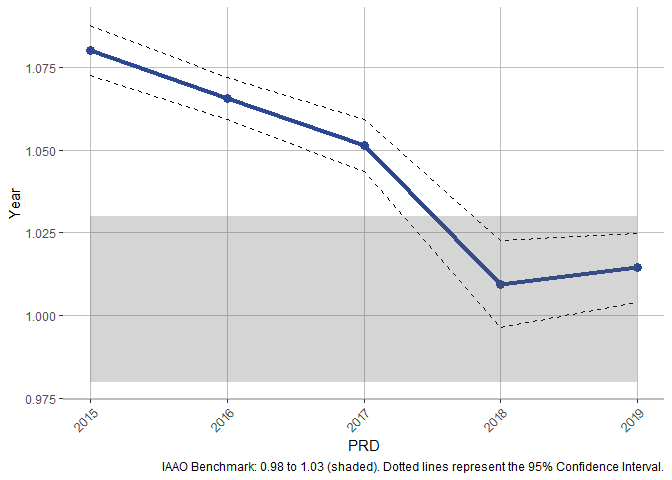
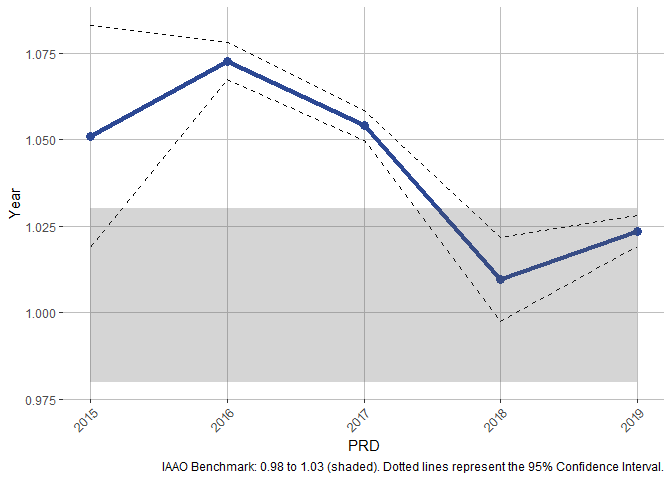
clearing r CMD check

diff --git a/README.md b/README.md
@@ -165,11 +165,11 @@ ratios <-
 stats <- cmfproperty::calc_iaao_stats(ratios)
 head(stats)
 #>       N     COD COD_SE    PRD PRD_SE     PRB PRB_SE  q1_ratio median_ratio
-#> 1 51879 19.1173 5.9888 1.0801 0.0039 -0.0514 0.0012 0.7758364    0.9093448
-#> 2 62852 20.7519 6.3019 1.0656 0.0033 -0.0462 0.0011 0.7705720    0.9001375
-#> 3 65961 19.8789 6.1441 1.0513 0.0040 -0.0269 0.0011 0.7428108    0.8732099
-#> 4 65298 19.2052 6.0299 1.0095 0.0067  0.0133 0.0010 0.7470336    0.8856039
-#> 5 62041 17.1030 4.8863 1.0145 0.0053  0.0098 0.0010 0.7681042    0.9035000
+#> 1 51879 17.3999 6.2998 1.0509 0.0164 -0.0514 0.0012 0.7758364    0.9093448
+#> 2 62852 19.3270 6.4174 1.0726 0.0027 -0.0462 0.0011 0.7705720    0.9001375
+#> 3 65961 19.0936 6.1161 1.0540 0.0022 -0.0269 0.0011 0.7428108    0.8732099
+#> 4 65298 19.2335 5.9038 1.0097 0.0062  0.0133 0.0010 0.7470336    0.8856039
+#> 5 62041 18.2744 4.5088 1.0236 0.0023  0.0098 0.0010 0.7681042    0.9035000
 #>   q3_ratio q1_sale median_sale q3_sale q1_assessed_value median_assessed_value
 #> 1 1.057180  148000      230000  375000          136670.0                213430
 #> 2 1.060422  148000      229900  365000          133940.0                209150
@@ -396,7 +396,7 @@ cmfproperty::make_report(ratios,
 #>   |                                                                              |......................................................................| 100%
 #>   ordinary text without R code
 #> output file: report.knit.md
-#> "C:/Program Files/RStudio/bin/pandoc/pandoc" +RTS -K512m -RTS report.utf8.md --to html4 --from markdown+autolink_bare_uris+tex_math_single_backslash+smart --output pandoc683c53d911fc.html --email-obfuscation none --self-contained --standalone --section-divs --table-of-contents --toc-depth 2 --variable toc_float=1 --variable toc_selectors=h1,h2 --variable toc_collapsed=1 --variable toc_smooth_scroll=1 --variable toc_print=1 --template "C:\Users\erhla\Documents\R\win-library\3.6\rmarkdown\rmd\h\default.html" --no-highlight --variable highlightjs=1 --number-sections --variable "theme:sandstone" --include-in-header "C:\Users\erhla\AppData\Local\Temp\RtmpWaNUoy\rmarkdown-str683c18c17c02.html" --mathjax --variable "mathjax-url:https://mathjax.rstudio.com/latest/MathJax.js?config=TeX-AMS-MML_HTMLorMML" --lua-filter "C:/Users/erhla/Documents/R/win-library/3.6/rmarkdown/rmd/lua/pagebreak.lua" --lua-filter "C:/Users/erhla/Documents/R/win-library/3.6/rmarkdown/rmd/lua/latex-div.lua" --filter "C:/Program Files/RStudio/bin/pandoc/pandoc-citeproc.exe"
+#> "C:/Program Files/RStudio/bin/pandoc/pandoc" +RTS -K512m -RTS report.utf8.md --to html4 --from markdown+autolink_bare_uris+tex_math_single_backslash+smart --output pandoc8207fd86de4.html --email-obfuscation none --self-contained --standalone --section-divs --table-of-contents --toc-depth 2 --variable toc_float=1 --variable toc_selectors=h1,h2 --variable toc_collapsed=1 --variable toc_smooth_scroll=1 --variable toc_print=1 --template "C:\Users\erhla\Documents\R\win-library\3.6\rmarkdown\rmd\h\default.html" --no-highlight --variable highlightjs=1 --number-sections --variable "theme:sandstone" --include-in-header "C:\Users\erhla\AppData\Local\Temp\RtmpGMvxfl\rmarkdown-str82033a46de5.html" --mathjax --variable "mathjax-url:https://mathjax.rstudio.com/latest/MathJax.js?config=TeX-AMS-MML_HTMLorMML" --lua-filter "C:/Users/erhla/Documents/R/win-library/3.6/rmarkdown/rmd/lua/pagebreak.lua" --lua-filter "C:/Users/erhla/Documents/R/win-library/3.6/rmarkdown/rmd/lua/latex-div.lua" --filter "C:/Program Files/RStudio/bin/pandoc/pandoc-citeproc.exe"
 #> 
 #> Output created: C:/Users/erhla/Desktop//Cook County, Illinois.html
 #> [1] "Report created at C:/Users/erhla/Desktop//Cook County, Illinois.html"
